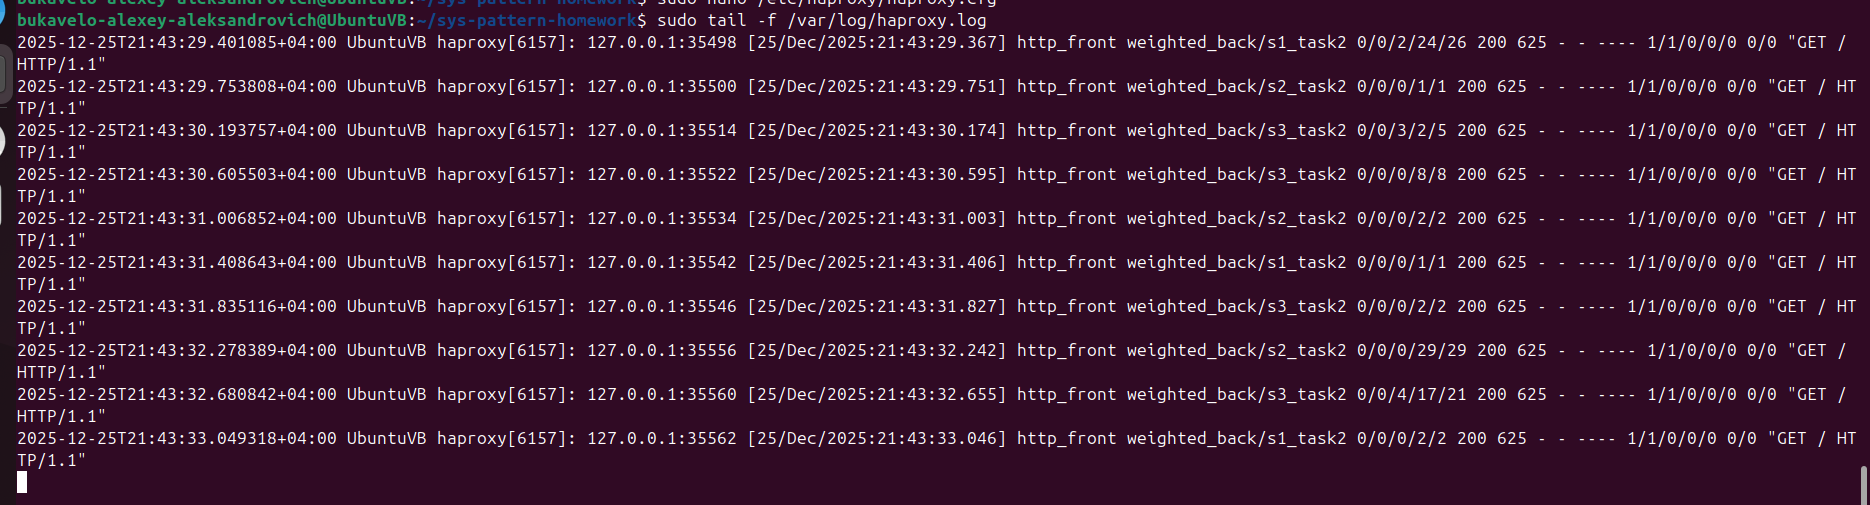
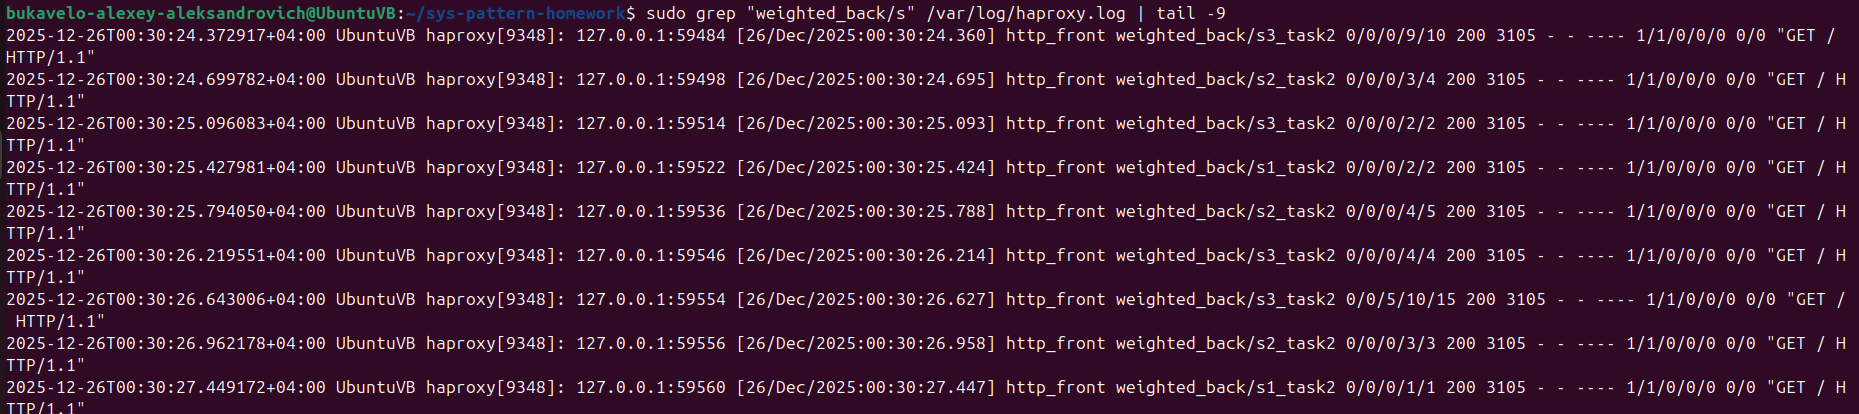
upgrade2

Changed region(s): [[0.0, 0.0, 0.9984, 1.0], [0.8736, 0.6667, 0.9984, 1.0], [0.8736, 0.058, 0.9984, 0.1159]]

diff --git a/README.md b/README.md
@@ -30,6 +30,11 @@
 Настройте балансировку Round-robin на 4 уровне.
 На проверку направьте конфигурационный файл haproxy, скриншоты, где видно перенаправление запросов на разные серверы при обращении к HAProxy.
 
+
+[Haproxy.cfg](/haproxy.cfg)
+
+
+
 #task1
 frontend tcp_front
     bind *:8080
@@ -41,6 +46,7 @@ backend tcp_back
     balance roundrobin
     server s1_task1 127.0.0.1:8888 check
     server s2_tsak1 127.0.0.1:9999 check
+
 
 
 ![task1](img/task1.png)
@@ -55,6 +61,8 @@ backend tcp_back
 HAproxy должен балансировать только тот http-трафик, который адресован домену example.local
 На проверку направьте конфигурационный файл haproxy, скриншоты, где видно перенаправление запросов на разные серверы при обращении к HAProxy c использованием домена example.local и без него.
 
+
+
 frontend http_front
     bind *:8081
     mode http
@@ -65,14 +73,29 @@ backend weighted_back
     mode http
     balance roundrobin
     server s1_task2 127.0.0.1:7777 weight 2 check
-    server s2_task2 127.0.0.1:8888 weight 3 check
-    server s3_task2 127.0.0.1:9999 weight 4 check
-                                                 
+    server s2_task2 127.0.0.1:8889 weight 3 check
+    server s3_task2 127.0.0.1:9990 weight 4 check
 
+
+
+При перенаправление запросов с помощью домена мы видим что они распределятся с помощью весов, сделав тестовые 9 запросов, перенапрвление на сервера рапридилось следующим оборазом:
+s1_task2 (weight 2): 2
+s2_task2 (weight 3): 3
+s3_task2 (weight 4): 4                                                 
+Таким образом конфигурация работает
+
+Вывод и подсчет логов, дополнительно указан в файле [task2](/weight-log.txt)
+
+Скриншоты:
 С доменом
 ![task2](img/task2_domen.png)
 
 
+При перенаправление запросов без домена происходит ошибка 503
+
+Скриншоты:
 Без домена
 ![task2](img/task2_without.png)
+
+![task2](img/task2_withoutdomen.png)
 
